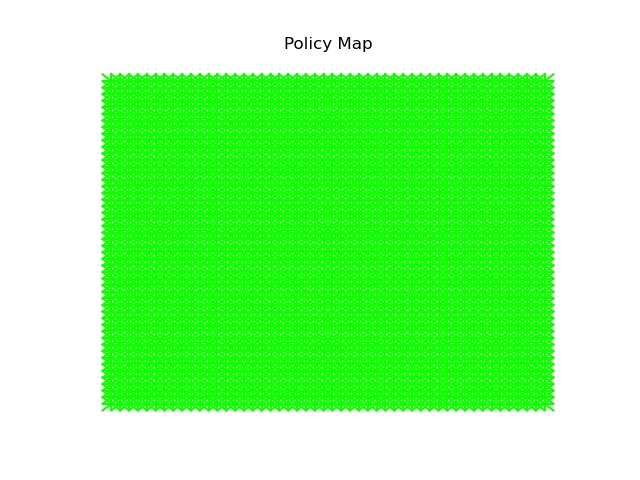
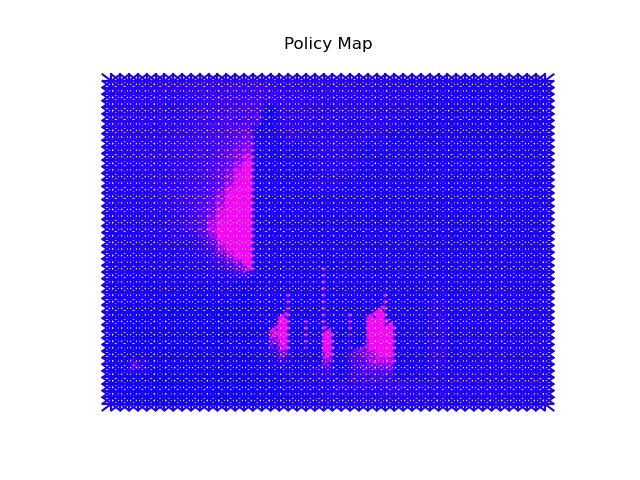
Got assignment into a slightly better state. Starting to work on docstringing things.

diff --git a/Question2/hw3_2.py b/Question2/hw3_2.py
@@ -10,15 +10,17 @@ import numpy as np
 import policy as pie
 import random as rand
 
-COOLING_FACTOR = 0.9
+COOLING_FACTOR = 0.1
 INITIAL_TEMPERATURE = 3000
 MAP_X = 50
 MAP_Y = 50
-MAX_ITERATIONS = 2000
+MAX_ITERATIONS = 1000
 NUMBER_OF_ACTIONS = 8
-NUMBER_OF_TRIALS = 1000
-PUNISHMENT_VALUE = -10
-REWARD_VALUE = 10
+NUMBER_OF_TRIALS = 5000
+PUNISHMENT_VALUE = -1
+REWARD_VALUE = 1
+X_ACTIONS = [-1, 1, 0, 0, -1, -1, 1, 1]
+Y_ACTIONS = [0, 0, 1, -1, -1, 1, 1, -1]
 
 # Macros for map array
 OUT_OF_BOUNDS = -1
@@ -37,20 +39,20 @@ def main():
     """
     policyMap = np.array(initPolicyMap())
     mapArray, start, end = hardInit()
-    # io.printMap(mapArray, [])
     for trial in range(NUMBER_OF_TRIALS):
         print(trial)
-        policyMap, route = policyIterate(np.array(mapArray), start, end, policyMap)
+        policyMap, route = policyIterate(
+            np.array(mapArray), start, end, policyMap
+        )
     route = []
     policyMap, route = policyIterate(np.array(mapArray), start, end, policyMap)
-    route.insert(0, start)
     io.printPolicyMap(policyMap)
     io.printMap(mapArray, route)
 
 
-def accept_solution(energy1, energy2, temperature, current, new):
+def acceptSolution(energy1, energy2, temperature):
     """
-    Function checks whether to accept or reject solution using an algorithm 
+    Function checks whether to accept or reject solution using an algorithm
     similar to simulated annealing.
 
     Args:
@@ -58,14 +60,12 @@ def accept_solution(energy1, energy2, temperature, current, new):
         energy2 (float): fitness or energy of new solution
         temperature (float): "temperature" value that determines probability of
                              accepting a better value
-        current ([type]): [description]
-        new ([type]): [description]
 
     Returns:
-        [type]: [description]
+        bool: True if accept, false if not.
     """
     if energy1 > energy2:
-        return True, new[X], new[Y]
+        return True
     else:
         try:
             a = math.exp((energy1 - energy2) / temperature)
@@ -73,9 +73,32 @@ def accept_solution(energy1, energy2, temperature, current, new):
             a = 1
         b = rand.random()
         if a > b:
-            return True, new[X], new[Y]
+            return True
         else:
-            return False, current[X], current[Y]
+            return False
+
+
+def adjustWeights(policyMap, x, y, action, accept):
+    """
+    
+
+    Args:
+        policyMap (list): [description]
+        x (int): [description]
+        y (int): [description]
+        action (int): [description]
+        accept (bool): [description]
+
+    Returns:
+        [type]: [description]
+    """
+    for i in range(NUMBER_OF_ACTIONS):
+        if i == action:
+            policyMap[x][y][i] += (
+                REWARD_VALUE if accept else PUNISHMENT_VALUE)
+        policyMap[x][y][i] = 0 if policyMap[x][y][i] < 0 else policyMap[x][y][i]
+        policyMap[x][y][i] = 1000 if policyMap[x][y][i] > 1000 else policyMap[x][y][i]
+    return policyMap
 
 
 def distance(current_i, current_j, end_i, end_j):
@@ -94,7 +117,7 @@ def distance(current_i, current_j, end_i, end_j):
 
 def hardInit():
     """
-    Initializes map array with a difficult out of bounds area.
+    Initializes map array with a randomly generated out-of-bounds area.
 
     Returns:
         list: initialized 2d map array
@@ -102,14 +125,47 @@ def hardInit():
         list: ending coordinates
     """
     mapArray = initMapArray()
-    start = (rand.randint(0, 10), rand.randint(0, 49))
-    end = (rand.randint(46, 49), rand.randint(0, 49))
+    start = (rand.randint(0, int(MAP_X / 10)), rand.randint(0, MAP_Y - 1))
+    end = (rand.randint(int(MAP_X - MAP_X / 10), MAP_Y - 1),
+           rand.randint(0, MAP_Y - 1))
     mapArray[start[X]][start[Y]] = START
     mapArray[end[X]][end[Y]] = END
-    for i in range(rand.randint(12, 24), rand.randint(25, 44)):
-        for j in range(rand.randint(12, 24), rand.randint(25, 44)):
+
+    upperX = int(MAP_X - MAP_X / 10 - 1)
+    lowerX = int(MAP_X / 10 + 1)
+    middleX = int(MAP_X / 2 - 1)
+    upperY = MAP_Y - 2
+    lowerY = 2
+    middleY = int(MAP_Y / 2 - 1)
+    for i in range(rand.randint(lowerX, middleX), rand.randint(middleX + 2, upperX)):
+        for j in range(rand.randint(lowerY, middleY), rand.randint(middleY + 2, upperY)):
             mapArray[i][j] = OUT_OF_BOUNDS
     return mapArray, start, end
+
+
+def hardishInit():
+    """
+    Creates an X-shape out-of-bounds area on the map.
+
+    Returns:
+        list: initialized 2d map array
+        list: starting coordinates
+        list: ending coordinates
+    """
+    mapArray = initMapArray()
+    start = (int(MAP_X / 10), int(MAP_Y / 2))
+    end = (int(MAP_X - MAP_X / 10), int(MAP_Y / 2))
+    mapArray[start[X]][start[Y]] = START
+    mapArray[end[X]][end[Y]] = END
+    for i in range(int((3 * MAP_X) / 10), int((3 * MAP_X) / 5)):
+        mapArray[int(MAP_X/2)+1][i] = OUT_OF_BOUNDS
+        mapArray[int(MAP_X/2)][i] = OUT_OF_BOUNDS
+        mapArray[MAP_X - i][i] = OUT_OF_BOUNDS
+        mapArray[MAP_X - i][i+1] = OUT_OF_BOUNDS
+        mapArray[i][i] = OUT_OF_BOUNDS
+        mapArray[i][i + 1] = OUT_OF_BOUNDS
+    return mapArray, start, end
+
 
 def initMapArray():
     """
@@ -128,6 +184,12 @@ def initMapArray():
 
 
 def initPolicyMap():
+    """
+    Initializes the policy map by setting all weights to 0 at each square.
+
+    Returns:
+        list: 3d list of policy weights.
+    """
     policyMap = []
     for x in range(MAP_X):
         column = []
@@ -141,22 +203,36 @@ def initPolicyMap():
 
 
 def policyIterate(mapArray, start, end, policyMap):
-    route = []
+    """
+    Iterate weights in the policy to create the best policy map.
+
+    Args:
+        mapArray (list): List structure representing the playing field of the
+                         problem.
+        start (tuple): Starting coordinates.
+        end (tuple): End coordinates.
+        policyMap (list): 3d list record of policy weight values.
+
+    Returns:
+        list: Updated policy map.
+        list: Route taken over the course of the problem.
+    """
+    route = [start]
     i, j, iteration = start[X], start[Y], 0
     temperature = INITIAL_TEMPERATURE
     while (i != end[X] or j != end[Y]) and iteration < MAX_ITERATIONS:
         policy = pie.Policy(policyMap[i][j])
-        new_i, new_j, action = policy.chooseNextState(i, j, policyMap, mapArray)
-        accept, i, j = accept_solution(
+        new_i, new_j, action = policy.chooseNextState(
+            i, j, policyMap, mapArray)
+        accept = acceptSolution(
             distance(i, j, end[X], end[Y]),
             distance(new_i, new_j, end[X], end[Y]),
-            temperature,
-            (i, j),
-            (new_i, new_j)
+            temperature
         )
         temperature *= COOLING_FACTOR
-        policyMap[new_i][new_j][action] = policyMap[new_i][new_j][action] + \
-            (REWARD_VALUE if accept else PUNISHMENT_VALUE)
+        policyMap = adjustWeights(policyMap, i, j, action, accept)
+        i = new_i
+        j = new_j
         iteration += 1
         # io.displayMap(mapArray, (i, j))
         route.append((i, j))
@@ -165,7 +241,7 @@ def policyIterate(mapArray, start, end, policyMap):
 
 def simpleInit():
     """
-    Initializes map array with a simple out of bounds area.
+    Initializes map array with a simple out-of-bounds area.
 
     Returns:
         list: initialized 2d map array
@@ -173,13 +249,15 @@ def simpleInit():
         list: ending coordinates
     """
     mapArray = initMapArray()
-    mapArray[5][25] = START
-    mapArray[45][25] = END
-    for i in range(15, 30):
+    start = (int(MAP_X / 10), int(MAP_Y / 2))
+    end = (int(MAP_X - MAP_X / 10), int(MAP_Y / 2))
+    mapArray[start[X]][start[Y]] = START
+    mapArray[end[X]][end[Y]] = END
+    for i in range(int((3 * MAP_X)/10), int((3 * MAP_X)/5)):
         mapArray[i][i] = OUT_OF_BOUNDS
         mapArray[i][i + 1] = OUT_OF_BOUNDS
         mapArray[i + 1][i] = OUT_OF_BOUNDS
-    return mapArray, [5, 25], [45, 25]
+    return mapArray, start, end
 
 
 if __name__ == "__main__":

diff --git a/Question2/policy.py b/Question2/policy.py
@@ -36,8 +36,8 @@ def valid(i, j, map_array):
     Return:
         True if valid position to move to
     """
-    rows = map_array.shape[0]
-    cols = map_array.shape[1]
+    rows = len(map_array)
+    cols = len(map_array[0])
     if i < 0 or i >= rows:
         return False
     if j < 0 or j >= cols:
@@ -61,7 +61,6 @@ class Policy:
     def chooseNextState(self, x, y, policyMap, mapArray):
         new_x, new_y, action = self.__getNewState(x, y)
         while not valid(new_x, new_y, mapArray):
-            self.weights = self.weights + 1
             self.weights[action] = 0
             new_x, new_y, action = self.__getNewState(x, y)
         return new_x, new_y, action
@@ -72,23 +71,34 @@ class Policy:
             self.weights = self.weights + 1
             sumOfAll = NUMBER_OF_ACTIONS
         randomNumber = rand.randrange(sumOfAll)
+        # print(self.weights)
+        # print(self.__sumTotal(NUMBER_OF_ACTIONS), ", ", randomNumber)
         if randomNumber < self.__sumTotal(1):
+            # print("LEFT")
             return x - 1, y, LEFT
         elif randomNumber < self.__sumTotal(2):
+            # print("RIGHT")
             return x + 1, y, RIGHT
         elif randomNumber < self.__sumTotal(3):
+            # print("UP")
             return x, y + 1, UP
         elif randomNumber < self.__sumTotal(4):
+            # print("DOWN")
             return x, y - 1, DOWN
         elif randomNumber < self.__sumTotal(5):
+            # print("DOWN_LEFT")
             return x - 1, y - 1, DOWN_LEFT
         elif randomNumber < self.__sumTotal(6):
+            # print("UP_LEFT")
             return x - 1, y + 1, UP_LEFT
         elif randomNumber < self.__sumTotal(7):
+            # print("UP_RIGHT")
             return x + 1, y + 1, UP_RIGHT
         elif randomNumber < self.__sumTotal(8):
+            # print("DOWN_RIGHT")
             return x + 1, y - 1, DOWN_RIGHT
         else:
+            # print("ERROR")
             return x, y, -1
 
     def __sumTotal(self, numberOfElements):

diff --git a/Question2/data_io.py b/Question2/data_io.py
@@ -99,7 +99,7 @@ def printPolicyMap(policyMap):
     for x in range(len(policyMap)):
         for y in range(len(policyMap[0])):
             for action in range(len(policyMap[0][0])):
-                colorVal = int(policyMap[x][y][action] / 5)
+                colorVal = int(policyMap[x][y][action] * (255/1000))
                 colorVal = 16 if colorVal < 16 else colorVal
                 colorVal = 255 if colorVal > 255 else colorVal
                 plot.addLine(
@@ -107,7 +107,8 @@ def printPolicyMap(policyMap):
                     y,
                     x + X_ACTIONS[action],
                     y + Y_ACTIONS[action],
-                    color="#" + hex(colorVal).replace("0x", "")[0:2].upper() + "FF00"
+                    color="#" + hex(colorVal)
+                    .replace("0x", "")[0:2].upper() + "00FF"
                 )
 
     plot.setAxis(False)
